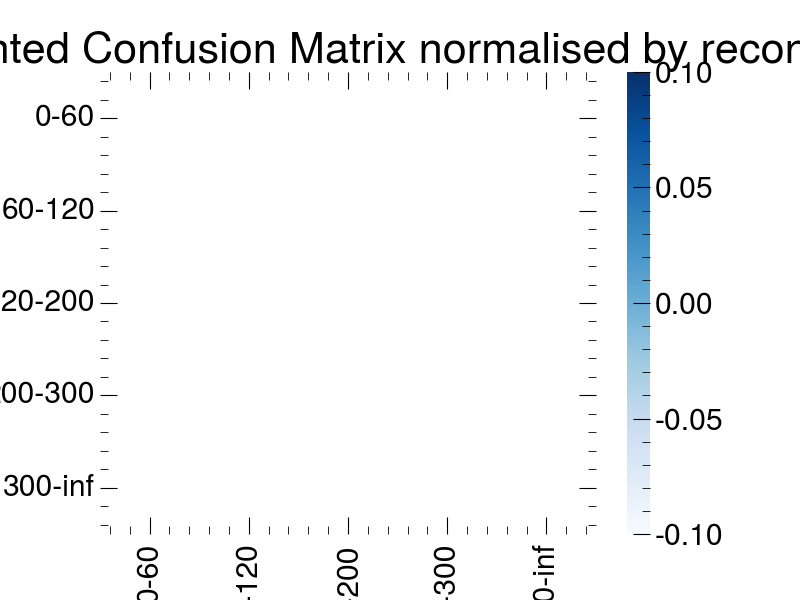
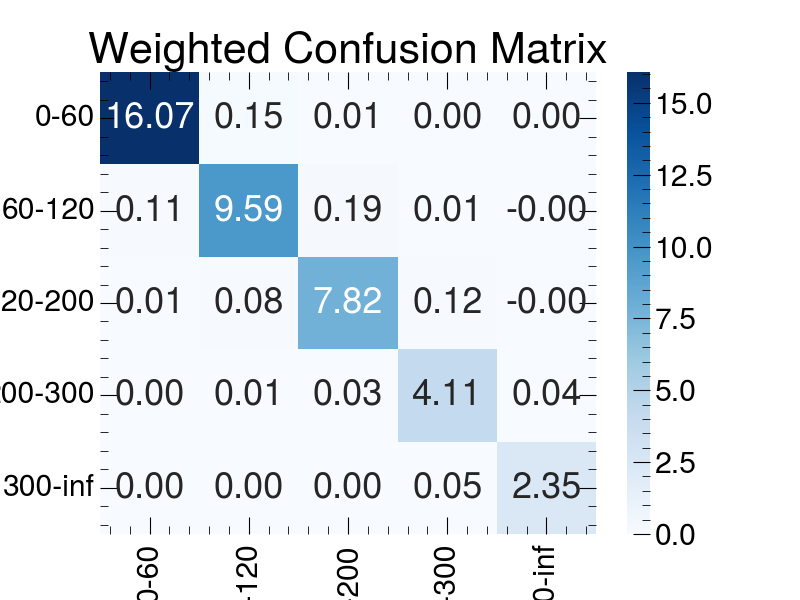
Fixed conf matrix

diff --git a/utils.py b/utils.py
@@ -40,7 +40,7 @@ def calc_NLL(hists, mu, conf_matrix = [],signal='ttH', category=None):
         #Loop over prod modes, truth bins so stuff inside log
         for proc, bin_yields in yields.items():
             #Stopping any negative bin yields from slipping in
-            bin_yields = [i if i>0 else 0 for i in bin_yields]
+            #bin_yields = [i if i>0 else 0 for i in bin_yields]
             #print(bin_yields)
             if proc == signal:
                 if len(conf_matrix)!=0:
@@ -50,16 +50,17 @@ def calc_NLL(hists, mu, conf_matrix = [],signal='ttH', category=None):
                     are performing a frozen fit.
                     '''
                     for truth_cat in range(5):
-                        e+=(mu if truth_cat==category else 1)*hists[truth_cat][signal]*conf_matrix[cat][truth_cat]
+                        if truth_cat==category:
+                            e+=mu*hists[truth_cat][signal]*conf_matrix[cat][truth_cat]
+                        else:
+                            e+=hists[truth_cat][signal]*conf_matrix[cat][truth_cat]
                 else:
                     e+=mu*bin_yields
-                #e += mu*bin_yields
+                
             else:
                 e += bin_yields
             n += bin_yields
-        #print(e)
         nll = e-n*np.log(e)
-     #   print("nll",nll)
         NLL_vals.append(nll)
     #print(NLL_vals, np.array(NLL_vals).sum())
     return np.array(NLL_vals).sum()
@@ -68,8 +69,8 @@ def add_val_label(val):
     return "$%.2f^{+%.2f}_{-%.2f}$"%(val[0],abs(val[1]),abs(val[2]))
 
 def find_crossings(graph, yval, spline_type="cubic", spline_points=1000, remin=True, return_all_intervals=False):
-    #print("graph 1: NLL vals = ", graph[1])
-    #print("when 0 ", graph[1]==0, graph[0], len(graph[0]), len(graph[1]))
+    print("graph 1: NLL vals = ", graph[1])
+    print("when 0 ", graph[1]==0, graph[0], len(graph[0]), len(graph[1]))
     # Build spline
     f = interp1d(graph[0],graph[1],kind=spline_type)
     x_spline = np.linspace(graph[0].min(),graph[0].max(),spline_points)
@@ -93,7 +94,7 @@ def find_crossings(graph, yval, spline_type="cubic", spline_points=1000, remin=T
 
     # Extract bestfit
     bestfit = graph[0][graph[1]==0]
-    print(bestfit)
+    #print(bestfit)
     #NO CLUE WHY BESTFIT HAS 2 VALUES SO ONLY TAKING THE FIRST ONE.
     bestfit=bestfit[0]
     #print("Bestfit", bestfit)
@@ -181,17 +182,20 @@ def get_conf_mat(data):
     recon_cat = get_pt_cat(recon)
     
     #6x6 conf matrix where x axis is truth dimension and y axis is recon dimension
-    conf_mat = np.array([[0 for i in range(5)] for i in range(5)])
+    conf_mat =np.zeros((5,5))
 
     for i in range(len(recon_cat)):
-        conf_mat[recon_cat[i]][truth_cat[i]]+=data["plot_weight"][i] #Not working not sure why
-    print(conf_mat)
+        #print(data["plot_weight"][i], recon_cat[i],truth_cat[i], conf_mat[recon_cat[i]][truth_cat[i]]+data["plot_weight"][i])
+        conf_mat[recon_cat[i]][truth_cat[i]]=conf_mat[recon_cat[i]][truth_cat[i]]+data["plot_weight"][i] #Not working not sure why
+        #print(conf_mat)
+    #print(conf_mat)
     conf_mat_truth_prop = [[conf_mat[i][j]/sum(conf_mat[:,j]) for j in range(5)] for i in range(5)]
     conf_mat_recon_prop = [[conf_mat[i][j]/sum(conf_mat[i]) for j in range(5)] for i in range(5)]
 
 
-    print("conf matrix: ", conf_mat)
-    print("Conf matrix by proportion of truth", conf_mat_truth_prop)
+    #print("conf matrix: ", conf_mat)
+    #print("Conf matrix by proportion of truth: ", conf_mat_truth_prop)
+    #print("Conf matrix by proportion of recon: ", conf_mat_recon_prop)
     labels = ["0-60", "60-120", "120-200", "200-300", "300-inf"]
     plt.figure(figsize=(8, 6))
     sns.heatmap(conf_mat, annot=True, fmt=".2f", cmap="Blues", cbar=True,
@@ -211,7 +215,18 @@ def get_conf_mat(data):
     plt.ylabel("Reconstructed pt")
     plt.xlabel("True pt")
     plt.title("Weighted Confusion Matrix normalised by recon")
-    plt.savefig(f"{analysis_path}/conf.png")
+    plt.savefig(f"{analysis_path}/conf_recon.png")
+
+
+    plt.figure(figsize=(8, 6))
+    sns.heatmap(conf_mat_truth_prop, annot=True, fmt=".2f", cmap="Blues", cbar=True,
+                xticklabels=labels, yticklabels=labels)
+
+    # Add labels to the plot
+    plt.ylabel("Reconstructed pt")
+    plt.xlabel("True pt")
+    plt.title("Weighted Confusion Matrix normalised by truth")
+    plt.savefig(f"{analysis_path}/conf_truth.png")
 
     return (conf_mat, conf_mat_truth_prop, conf_mat_recon_prop)
 

diff --git a/simple_stat_analysis.py b/simple_stat_analysis.py
@@ -148,19 +148,23 @@ for cat in cats_unique:
     hists[cat] = {}
     for proc in procs.keys():
         cat_mask = dfs[proc]['category'] == cat
-        hists[cat][proc] = np.histogram(dfs[proc][cat_mask][v], mass_bins, mass_range, weights=dfs[proc][cat_mask]['true_weight'+col_name])[0]
-
+        hist_counts = np.histogram(dfs[proc][cat_mask][v], mass_bins, mass_range, weights=dfs[proc][cat_mask]['true_weight'+col_name])[0]
+        
+        hist_counts[-2] += hist_counts[-1]  # Add last bin to the second last
+        hist_counts = hist_counts[:-1]      # Remove the last bin
+        hists[cat][proc] = hist_counts
 # Calculate NLL as a function of ttH signal strength (assuming fixed bkg and ggH yields)
 NLL_vals = []
 mu_vals = np.linspace(0,3,100)
 new_samples = pd.read_parquet(f"{sample_path}/ttH_processed_selected.parquet")
 conf_matrix =get_conf_mat(new_samples)
-print(conf_matrix)
-print(hists)
+#print(conf_matrix)
+#print(hists)
 for cat in cats_unique:
     cat_vals = []
     for mu in mu_vals:
         cat_vals.append(calc_NLL(hists, mu, conf_matrix[1], cat))
+    print("    NLL vals for cat: ",cat_vals)
     NLL_vals.append(cat_vals)
     
 # Plot NLL curve
